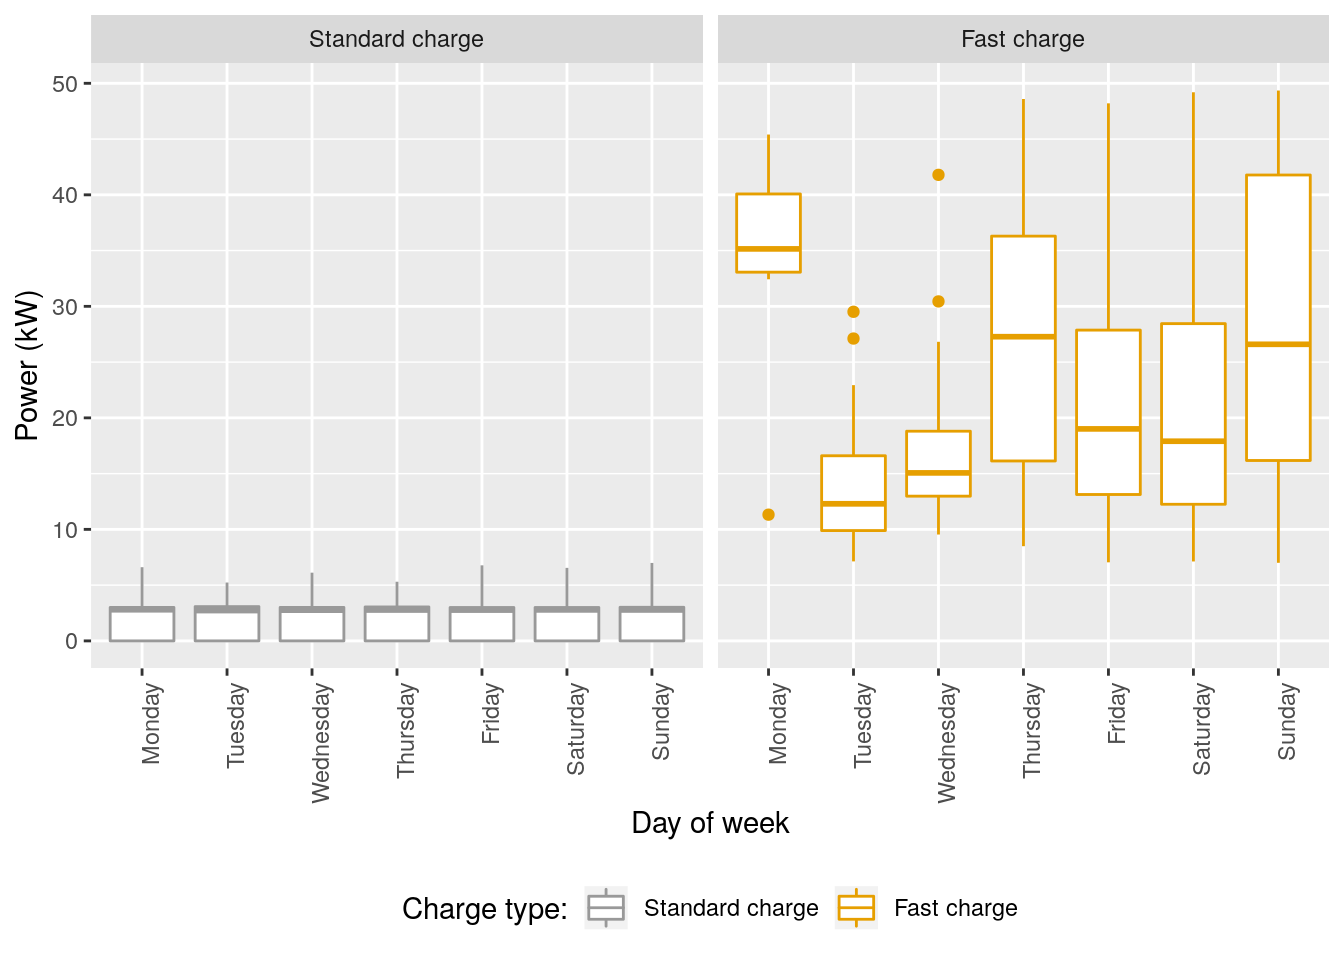
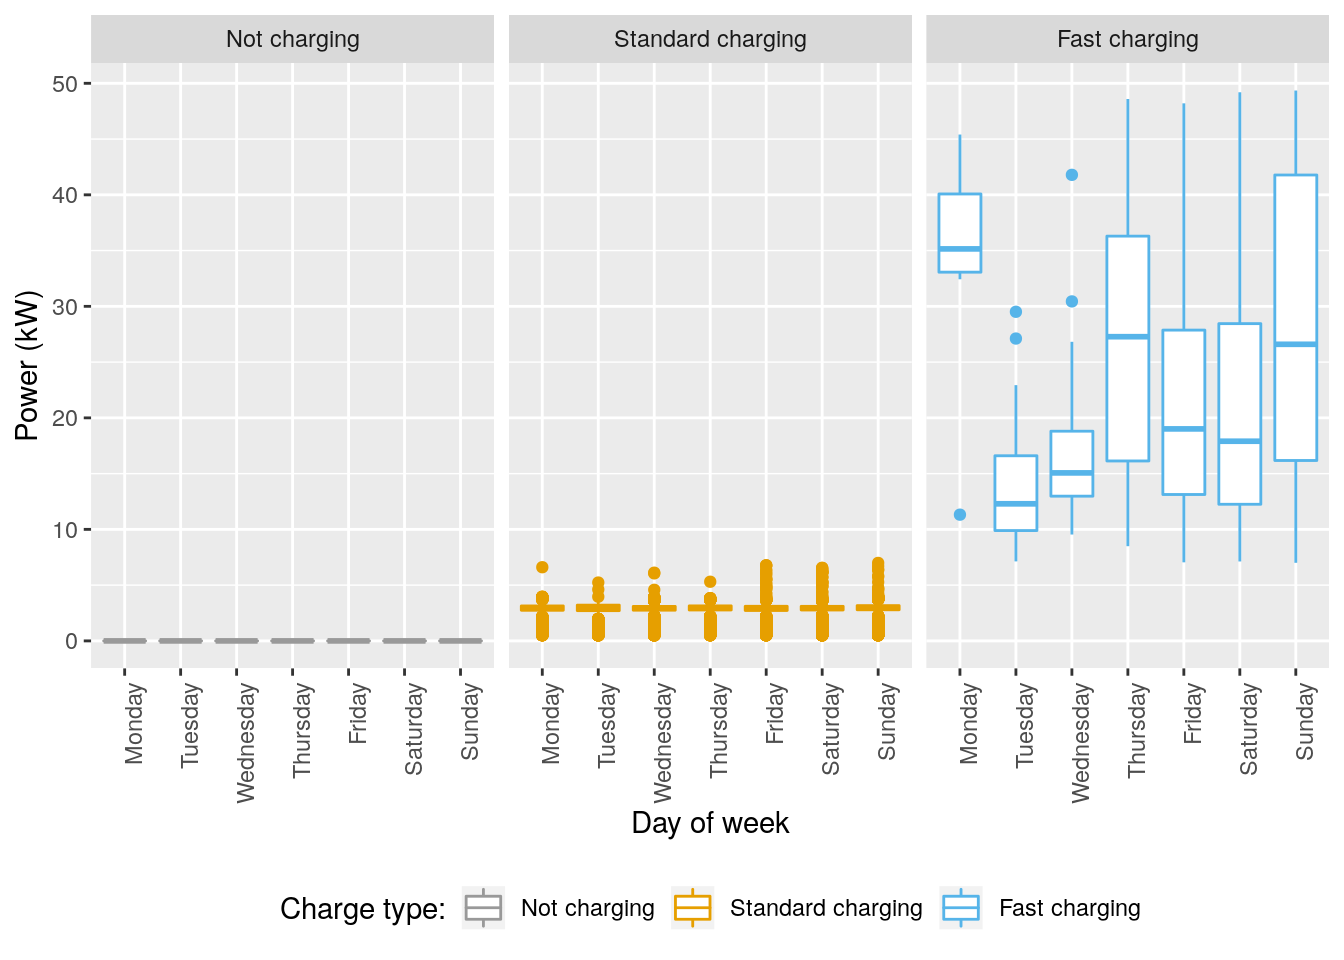
minor fixes and some attempts to measure charge duration that go nowhere

diff --git a/EVBB_SummaryReport.html b/EVBB_SummaryReport.html
@@ -302,7 +302,7 @@ div.tocify {
 <h1 class="title toc-ignore">Analysis of electric vehicle usage patterns in New Zealand</h1>
 <h3 class="subtitle"><em>Summary Statistical Report</em></h3>
 <h4 class="author"><em>Rafferty Parker and Ben Anderson (University of Otago)</em></h4>
-<h4 class="date"><em>Last run at: 2019-01-16 15:45:25</em></h4>
+<h4 class="date"><em>Last run at: 2019-01-17 10:12:57</em></h4>
 
 </div>
 
@@ -313,17 +313,24 @@ div.tocify {
 df$day_of_week &lt;- ordered(df$day_of_week, levels=c(&quot;Monday&quot;, &quot;Tuesday&quot;, &quot;Wednesday&quot;, &quot;Thursday&quot;, 
                                          &quot;Friday&quot;, &quot;Saturday&quot;, &quot;Sunday&quot;))
 # set charge type
-df$chargeType &lt;- ifelse(df$charge_power_kw &gt; 0, &quot;Standard charge&quot;, &quot;Not charging&quot;) # appears not to set not charging label. Why?
-df$chargeType &lt;- ifelse(df$charge_power_kw &gt;= 7, &quot;Fast charge&quot;, &quot;Standard charge&quot;)
+#df$chargeType &lt;- ifelse(df$charge_power_kw &gt; 0, &quot;Standard charge&quot;, &quot;Not charging&quot;) # appears not to set not charging label. Why?
+# have switched with method I used previously, seems to work fine.
+#df$chargeType &lt;- ifelse(df$charge_power_kw &gt;= 7, &quot;Fast charge&quot;, &quot;Standard charge&quot;)
 
 # set charge type order so charts make sense from left (std) to right (fast)
-df$chargeType &lt;- ordered(df$chargeType, levels=c(&quot;Not charging&quot;, &quot;Standard charge&quot;, &quot;Fast charge&quot;))
+
+df$chargeType &lt;- cut(df$charge_power_kw, c(-Inf, 0.01, 7, Inf), labels = c(&#39;Not charging&#39;, &#39;Standard charging&#39;, &#39;Fast charging&#39;))
+df$chargeType &lt;- factor(df$chargeType, ordered = TRUE)
+
+#&lt;- ordered(df$chargeType, levels=c(&quot;Not charging&quot;, &quot;Standard charge&quot;, &quot;Fast charge&quot;))
 
 df$qHour &lt;- hms::trunc_hms(df$time, 15*60) # truncate to previous 15 min
 
 dt &lt;- as.data.table(df) # creates a data.table for fast data crunching
 
-chargingDT &lt;- dt[charge_power_kw &gt; 0] # select just charging</code></pre>
+chargingDT &lt;- dt[charge_power_kw &gt; 0] # select just charging
+
+df$id &lt;- factor(df$id, ordered = TRUE) # To get N vehicles</code></pre>
 <div id="note" class="section level1">
 <h1><span class="header-section-number">1</span> Note</h1>
 <p>Based on and inspired by the <a href="https://assets.publishing.service.gov.uk/government/uploads/system/uploads/attachment_data/file/764270/electric-chargepoint-analysis-2017-domestics.pdf">UK DoT statistical report 2018</a>.</p>
@@ -332,7 +339,7 @@ chargingDT &lt;- dt[charge_power_kw &gt; 0] # select just charging</code></pre>
 </div>
 <div id="definitions" class="section level1">
 <h1><span class="header-section-number">2</span> Definitions:</h1>
-<p>The data consisted of 73836 data points from N vehicles over M months (X - Y, 2018) derived from FlipTheFleet’s <a href="https://flipthefleet.org/ev-black-box/">blackbox recorder</a>. The recorder provided measurements at 1 minute frequency of charging behaviour and battery charge state as well as geo-location via GPS.</p>
+<p>The data consisted of 73836 data points from 3 vehicles over M months (X - Y, 2018) derived from FlipTheFleet’s <a href="https://flipthefleet.org/ev-black-box/">blackbox recorder</a>. The recorder provided measurements at 1 minute frequency of charging behaviour and battery charge state as well as geo-location via GPS.</p>
 <p>The capacity of most domestic charging is between 1.8kW to 7kW, whereas charging power above 7kW is available at purpose-built charging stations<span class="citation">[@concept2018]</span>. Each charging event was therefore seperated into “Fast” (&gt; = 7kW) and “Slow” (below 7kW).</p>
 <p>A charging event was defined as a continuous sequence of 1 minute observations per vehicle when &gt; 0 kW was demand was observed. <em>Difficult to do accurately without date column due to charging occurring through the night when date hashes change. These hashes do not appear to have an order so we cannot distinguish the 2nd from the 3rd Thursday (for example) and so establish correct multi-day sequences.</em></p>
 <p>For a discussion of data limitations see Section <a href="#dataIssues">9</a>.</p>
@@ -345,7 +352,7 @@ stdMean &lt;- mean(chargingDT[chargeType == &quot;Standard charge&quot;]$charge_
 fastMedian &lt;- median(chargingDT[chargeType == &quot;Fast charge&quot;]$charge_power_kw)
 fastMean &lt;- mean(chargingDT[chargeType == &quot;Fast charge&quot;]$charge_power_kw)</code></pre>
 <ul>
-<li><em>Power supplied</em>: The median power supplied during a standard charging was 2.93 kW. The mean was slightly lower/higher at 2.82 kW. Fast charging observations had a higher median of 20.37 kW (mean = 23.59);</li>
+<li><em>Power supplied</em>: The median power supplied during a standard charging was NA kW. The mean was slightly lower/higher at NaN kW. Fast charging observations had a higher median of NA kW (mean = NaN);</li>
 <li><em>Charging duration</em>: Charging durations tended to fall into one of two groups - longer ‘overnight’ charges with a median of XX hours and shorter events during the day both at standard and fast charge rates with a median duration of XX hours. <em>Gets truncated at midnight as not possible to determine exact sequence of days</em></li>
 <li><em>Time of Day</em>: charging events were more frequent at specific times of the day and day of the week with more evening and over-night charging during weekdays and more day-time charging at weekends. The power demand also varied according to time of day and day of the week.</li>
 </ul>
@@ -370,10 +377,10 @@ p + labs(y = &quot;Density&quot;,
 Figure 4.1: Observed power demand distribution by day of the week and charge type where charging observed
 </p>
 </div>
-<p>The median power supplied during a standard charging was 2.93 kW. The mean was slightly lower/higher at 2.82 kW. Fast charging observations had a higher median of 20.37 kW (mean = 23.59).</p>
+<p>The median power supplied during a standard charging was NA kW. The mean was slightly lower/higher at NaN kW. Fast charging observations had a higher median of NA kW (mean = NaN).</p>
 <pre class="r"><code>stdQT &lt;- quantile(chargingDT[chargeType == &quot;Standard charge&quot;]$charge_power_kw)
 fastQT &lt;- quantile(chargingDT[chargeType == &quot;Fast charge&quot;]$charge_power_kw)</code></pre>
-<p>75% of standard charging observations were 2.76 kW or more but the figure was 13.34 kW or more for fast charging</p>
+<p>75% of standard charging observations were NA kW or more but the figure was NA kW or more for fast charging</p>
 </div>
 <div id="daily-demand" class="section level1">
 <h1><span class="header-section-number">5</span> Daily demand</h1>

diff --git a/EVBB_Report.html b/EVBB_Report.html
@@ -301,7 +301,7 @@ div.tocify {
 
 <h1 class="title toc-ignore">Analysis of electric vehicle usage patterns in New Zealand</h1>
 <h4 class="author"><em>Rafferty Parker (University of Otago)</em></h4>
-<h4 class="date"><em>Last run at: 2019-01-16 13:47:58</em></h4>
+<h4 class="date"><em>Last run at: 2019-01-16 15:55:00</em></h4>
 
 </div>
 
@@ -562,6 +562,8 @@ dev.off()</code></pre>
 <pre class="r"><code>p &lt;- ggplot(data=chargeBegins, aes(chargeBegins$state_of_charge_percent)) + geom_histogram(bins = 10)
 p + labs(x = &quot;State of charge when charging begins (%)&quot;)</code></pre>
 <p><img src="EVBB_Report_files/figure-html/value%20of%20state%20of%20charge%20at%20beginning%20of%20charge-1.png" width="672" /></p>
+<pre class="r"><code>ggsave(&quot;~/EVBB/plots/SOC_when_charging_begins.png&quot;)</code></pre>
+<pre><code>## Saving 7 x 5 in image</code></pre>
 <pre class="r"><code>startCount &lt;- table(chargeBegins$day_of_week)
 barplot(startCount, main=&quot;Charging start times&quot;)</code></pre>
 <p><img src="EVBB_Report_files/figure-html/bar%20plots%20of%20charging%20start%20times-1.png" width="672" /></p>
@@ -762,7 +764,7 @@ p + labs(x = &quot;Time of day (hours)&quot;, y = &quot;Frequency of fast chargi
 p + labs(x = &quot;Time of day&quot;, y = &quot;State of charge (%)&quot;)</code></pre>
 <pre><code>## Warning: Removed 1 rows containing non-finite values (stat_boxplot).</code></pre>
 <p><img src="EVBB_Report_files/figure-html/charging%20density%20plot%20by%20vehicle-1.png" width="672" /></p>
-<pre class="r"><code>ggsave(&quot;~/EVBB/plots/SOC_when_charging_begins.png&quot;)</code></pre>
+<pre class="r"><code>ggsave(&quot;~/EVBB/plots/SOC_throughout_day.png&quot;)</code></pre>
 <pre><code>## Saving 7 x 5 in image</code></pre>
 <pre><code>## Warning: Removed 1 rows containing non-finite values (stat_boxplot).</code></pre>
 </div>
